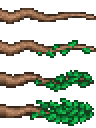
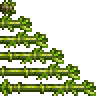
new growth spurt

diff --git a/Content/Projectiles/Growth.cs b/Content/Projectiles/Growth.cs
@@ -12,16 +12,16 @@ namespace SuperfluityTwo.Content.Projectiles
 	public class Growth : ModProjectile
 	{
         public override void SetStaticDefaults() {
-			Main.projFrames[Type] = 4;
+			Main.projFrames[Type] = 6;
 		}
 
 		public override void SetDefaults()
         {
-			Projectile.width = 32;
-			Projectile.height = 32;
+			Projectile.width = 16;
+			Projectile.height = 16;
 			Projectile.friendly = true;
 			Projectile.hostile = false;
-			Projectile.penetrate = -1;
+			Projectile.penetrate = 3;
 			Projectile.timeLeft = 26;
 			Projectile.ignoreWater = true;
 			Projectile.tileCollide = false;
@@ -42,8 +42,6 @@ namespace SuperfluityTwo.Content.Projectiles
         {
             Projectile.rotation = Projectile.velocity.ToRotation();
 			Projectile.ai[2] = Projectile.rotation;
-			//Projectile.spriteDirection = Projectile.direction;
-			//Projectile.knockBack *= Projectile.direction;
 			offset = Projectile.velocity;
 			offset.Normalize();
 			Projectile.ai[0] = offset.X;
@@ -51,7 +49,6 @@ namespace SuperfluityTwo.Content.Projectiles
 			Projectile.velocity *= 0.001f;
         }
 
-		float scaler = 0;
 		float animTimer = 0;
         public override bool PreAI()
         {
@@ -59,14 +56,10 @@ namespace SuperfluityTwo.Content.Projectiles
 			offset = new Vector2(Projectile.ai[0], Projectile.ai[1]);
 
 			Player owner = Main.player[Projectile.owner];
-			Projectile.position = owner.Center + offset + offset * offsetPower + new Vector2(2.375f * -owner.width, -0.4f * owner.height);
-			Projectile.scale = scaler;
-			scaler += 1f/26f * 2f;
-			offsetPower += 1.5f * 2f;
-			scaler = Math.Min(scaler, 1);
-			offsetPower = Math.Min(offsetPower, 39);
+			Projectile.position = owner.Center + offset * (offsetPower + 38) + new Vector2(2.375f * -owner.width, -0.3f * owner.height);
 			Projectile.frame = (int)animTimer;
-			animTimer += 4.5f/26f;
+			animTimer += 6f/26f;
+			offsetPower = animTimer % 1 * 16;
 			
             return false;
         }
@@ -74,13 +67,23 @@ namespace SuperfluityTwo.Content.Projectiles
         public override void ModifyDamageHitbox(ref Rectangle hitbox)
         {
 			Player owner = Main.player[Projectile.owner];
-			hitbox.X += (int)(2.375f * owner.width);
-			hitbox.X -= hitbox.Width / 2;
-			hitbox.Y += (int)(0.4f * owner.height);
-			hitbox.Y -= hitbox.Height / 2;
+			hitbox.X = (int)owner.Center.X;
+			hitbox.Y = (int)owner.Center.Y;
 
-			hitbox.X += (int)(offset.X * offsetPower * 1.25f);
-			hitbox.Y += (int)(offset.Y * offsetPower * 1.25f);
+			//hitbox.X += (int)(-2.375f * owner.width);
+			hitbox.X -= hitbox.Width / 2;
+			hitbox.Y -= (int)(0.3f * owner.height);
+			//hitbox.Y -= hitbox.Height / 2;
+
+			hitbox.X += (int)(offset.X * animTimer * 16f);
+			hitbox.Y += (int)(offset.Y * animTimer * 16f);
+        }
+
+        public override void OnKill(int timeLeft)
+        {
+			Player owner = Main.player[Projectile.owner];
+			for (int i = 0; i < 12; i++) 
+            	Dust.NewDust(owner.Center + new Vector2(0, -0.3f * owner.height) + offset * i * 8, 16, 16, DustID.JunglePlants);
         }
 
         public override void OnHitNPC(NPC target, NPC.HitInfo hit, int damageDone)

diff --git a/Content/Items/Weapons/GrowthSpurt.cs b/Content/Items/Weapons/GrowthSpurt.cs
@@ -12,6 +12,8 @@ namespace SuperfluityTwo.Content.Items.Weapons
         // The Display Name and Tooltip of this item can be edited in the Localization/en-US_Mods.SuperfluousSummoning.hjson file.
         public override void SetDefaults()
 		{
+			Item.width = 28;
+			Item.height = 28;
 			Item.mana = 2;
 			Item.useStyle = ItemUseStyleID.Swing;
 			Item.shootSpeed = 7f;
@@ -20,10 +22,8 @@ namespace SuperfluityTwo.Content.Items.Weapons
 			Item.useTime = 26;
 			Item.noMelee = true;
 			Item.crit = 0;
-			Item.damage = 7;
+			Item.damage = 8;
 			Item.DamageType = DamageClass.SummonMeleeSpeed;
-			Item.width = 32;
-			Item.height = 32;
 			Item.knockBack = 3;
 			Item.value = Item.sellPrice(copper: 30);
 			Item.rare = ItemRarityID.White;
@@ -35,8 +35,8 @@ namespace SuperfluityTwo.Content.Items.Weapons
         public override void AddRecipes()
 		{
 			CreateRecipe()
-				.AddRecipeGroup("Wood", 25)
-				.AddIngredient(ItemID.Acorn, 5)
+				.AddIngredient(ItemID.BambooBlock, 7)
+				.AddIngredient(ItemID.FallenStar)
 				.AddTile(TileID.WorkBenches)
 				.Register();
 		}
